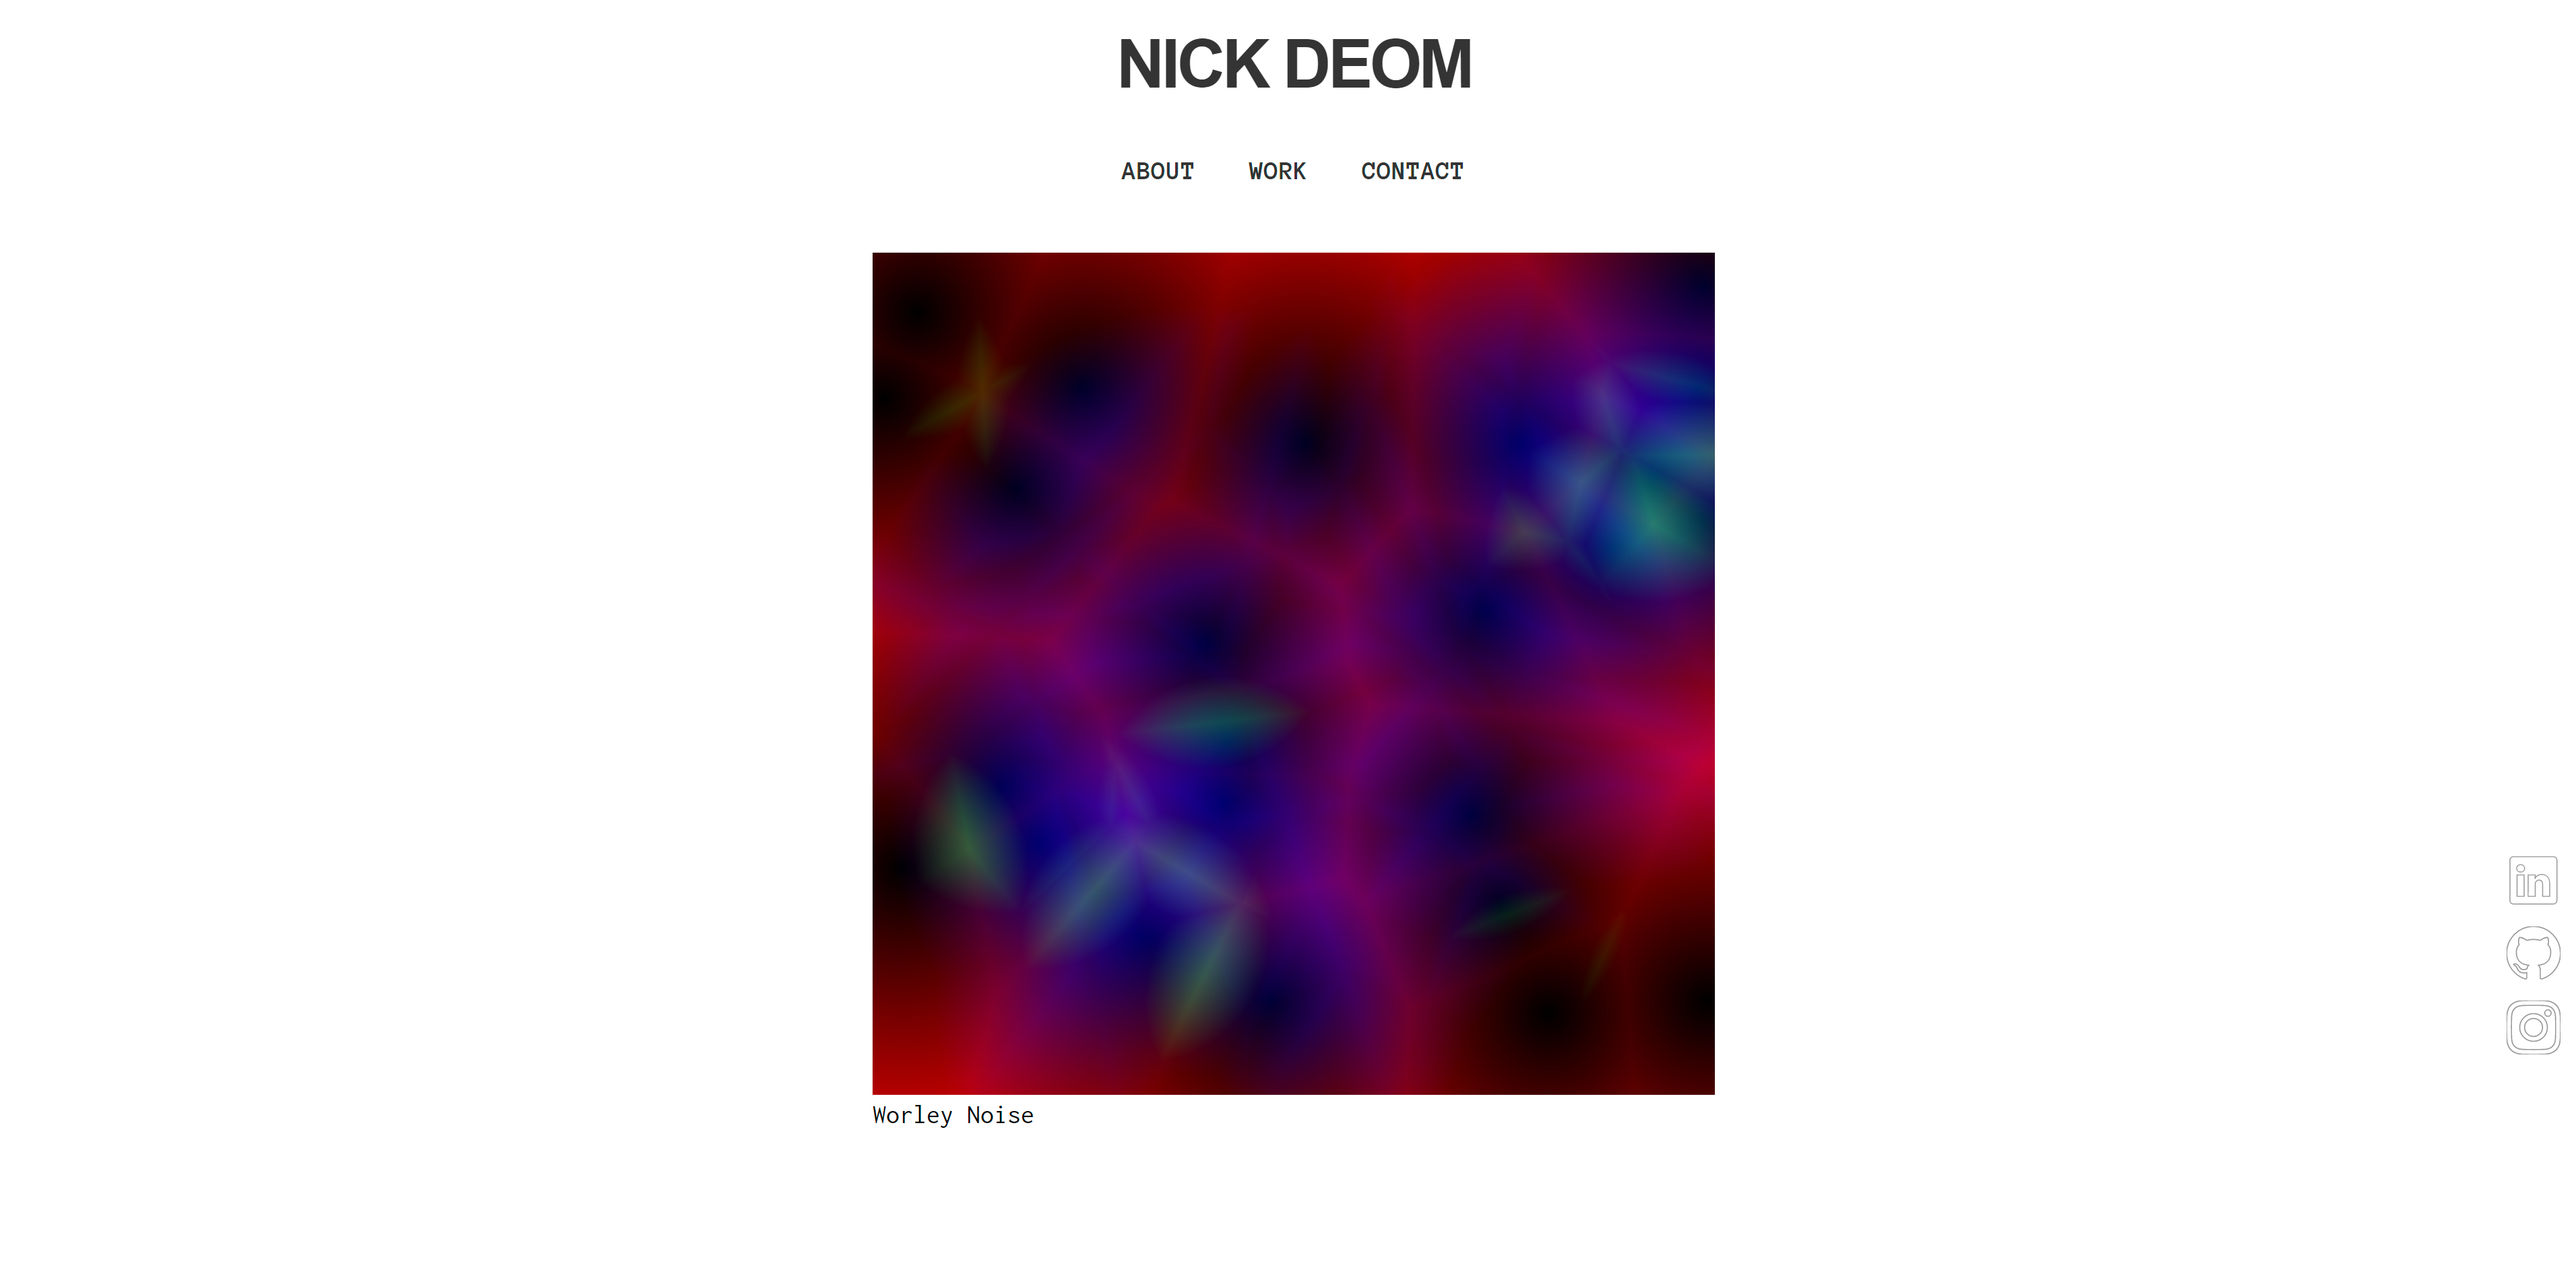
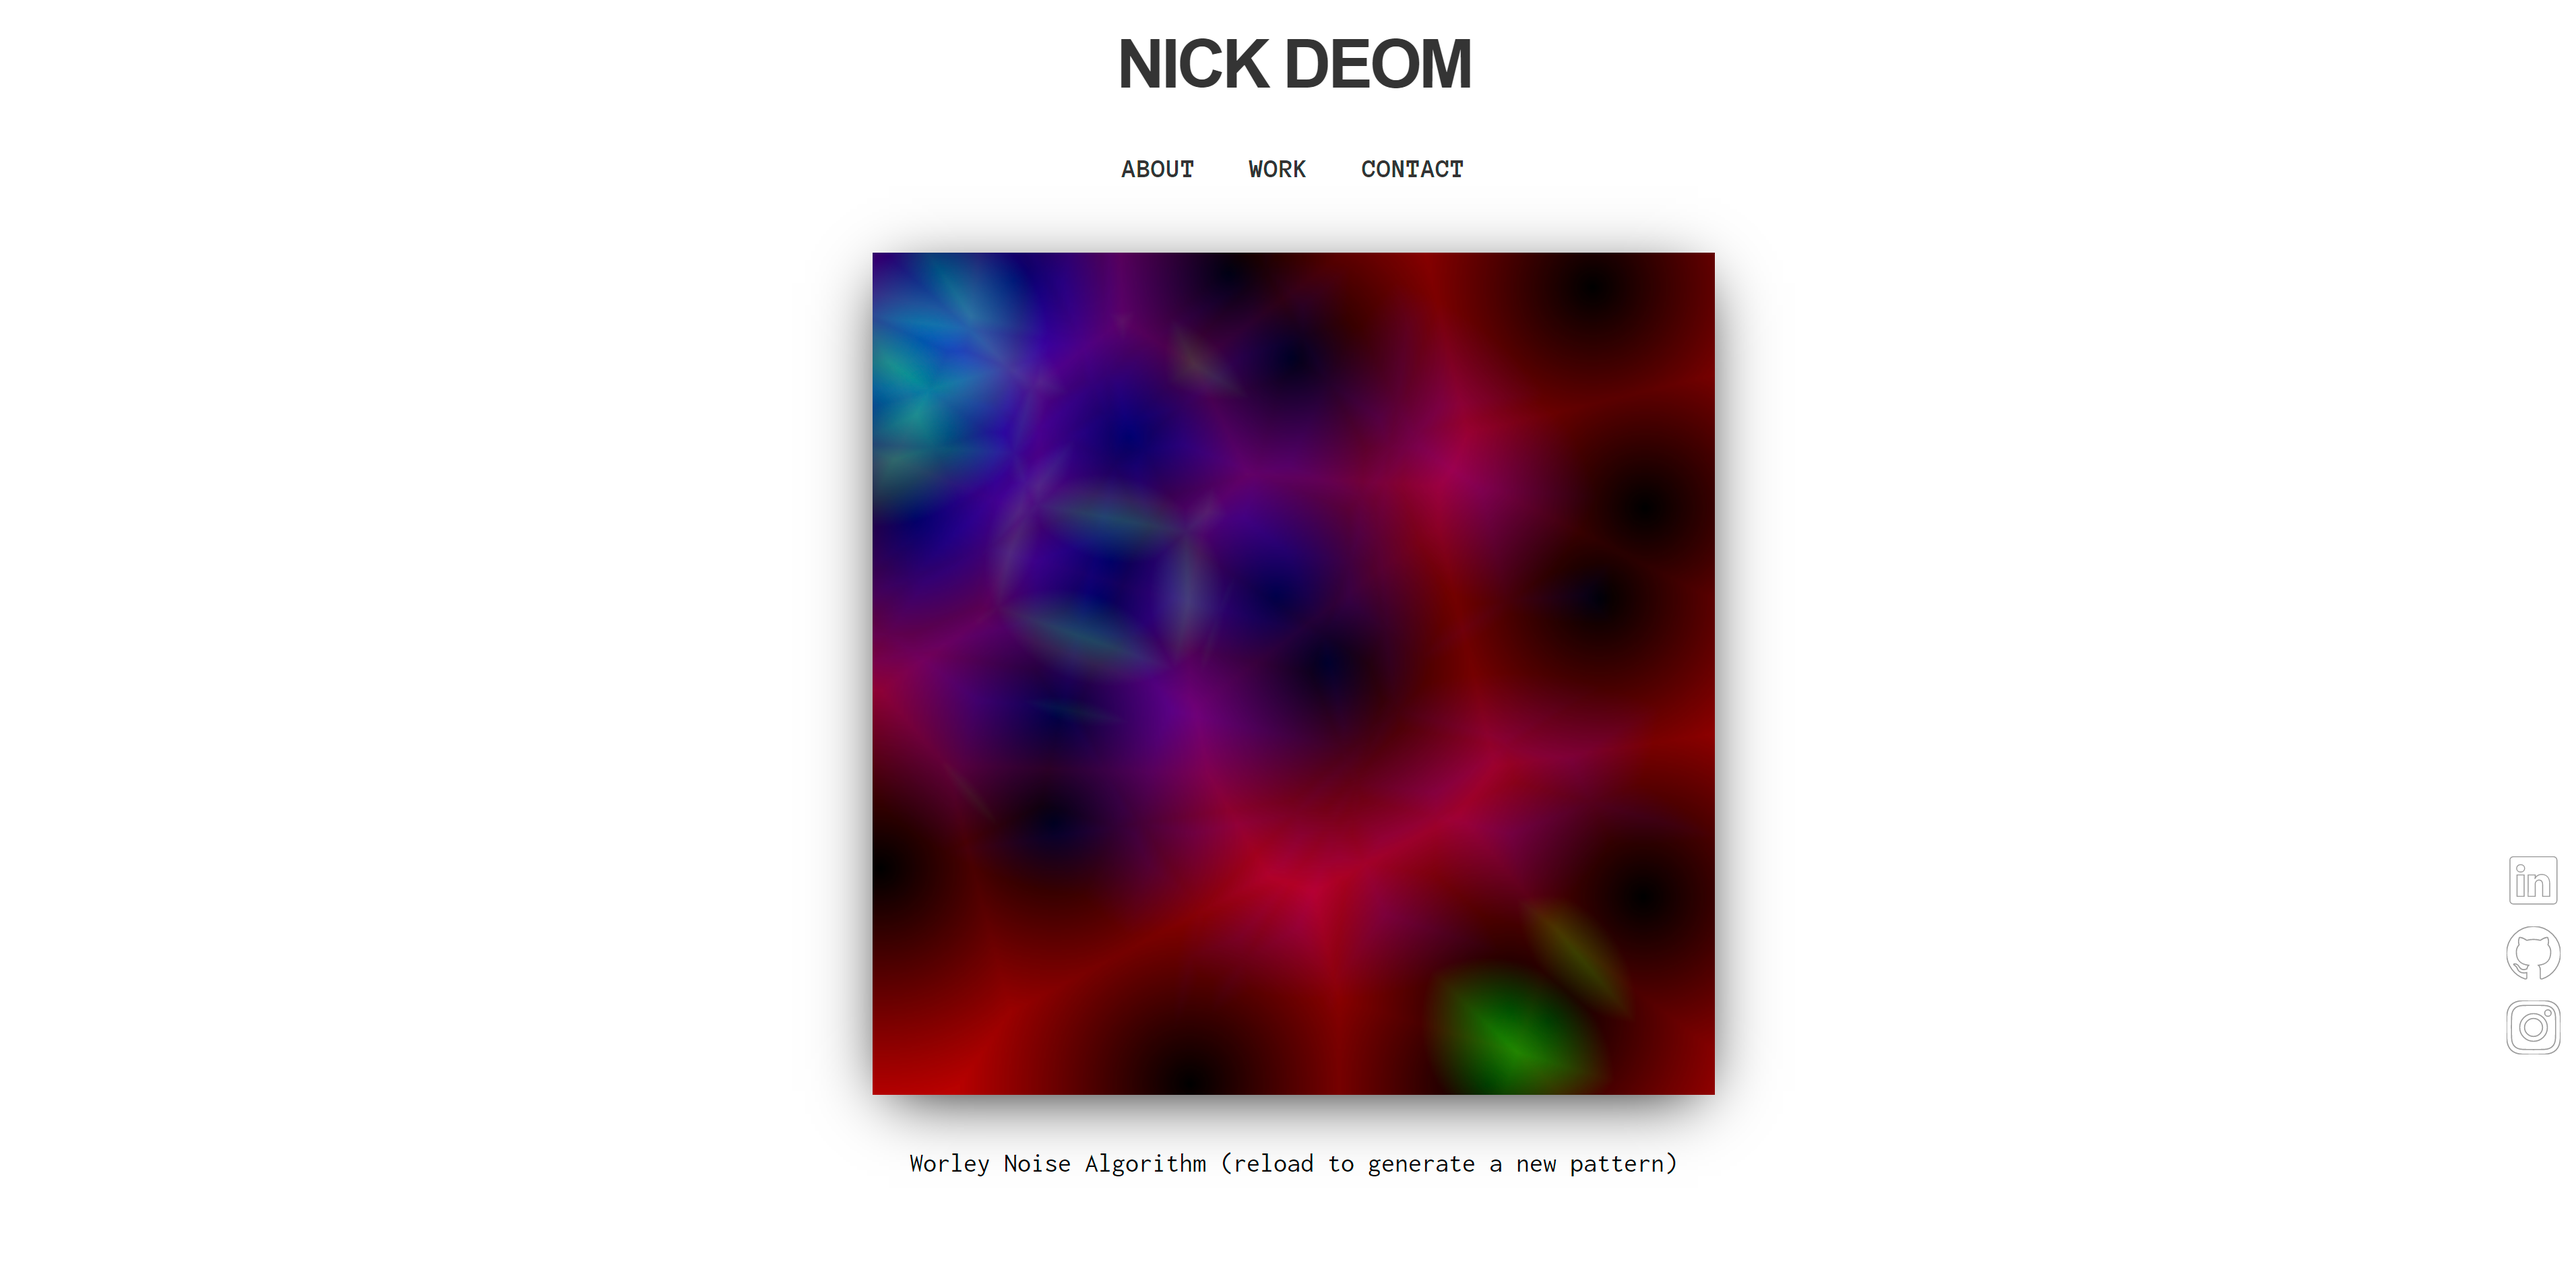
Added anchor tags to project titles and images

Changed region(s): [[0.3113, 0.1846, 0.6848, 0.9231], [0.5292, 0.1231, 0.5603, 0.1538], [0.4358, 0.1231, 0.4669, 0.1538]]

diff --git a/src/Routes/Work.js b/src/Routes/Work.js
@@ -12,7 +12,11 @@ export default function Work() {
     <div id="work">
       <div id="work-content">
         <h2 id="work-title">work</h2>
-        <Project title={"StockBOT"} src={StockBOTImg}>
+        <Project
+          title={"StockBOT"}
+          src={StockBOTImg}
+          projectLink={"https://stockbotio.herokuapp.com/"}
+        >
           <p>
             StockBOT is a game where you play against a machine learning
             algorithm and the market to see who can get the biggest return on
@@ -47,7 +51,11 @@ export default function Work() {
             .
           </p>
         </Project>
-        <Project title={"Job.Scrape()"} src={JobScrapeImg}>
+        <Project
+          title={"Job.Scrape()"}
+          src={JobScrapeImg}
+          projectLink={"https://jobscrapeio.herokuapp.com/"}
+        >
           <p>
             Job.Scrape() is a web scraper that collects recent job postings from
             Stack Overflow, Hacker News, and TripleByte and makes them available
@@ -93,7 +101,11 @@ export default function Work() {
             .
           </p>
         </Project>
-        <Project title={"Portfolio"} src={PortfolioImg}>
+        <Project
+          title={"Portfolio"}
+          src={PortfolioImg}
+          projectLink={"https://github.com/ndeom/NickDeomPortfolio"}
+        >
           <p>
             This website was made with <span className="emphasis">React</span>,{" "}
             <span className="emphasis">SASS</span>, and{" "}
@@ -126,7 +138,7 @@ export default function Work() {
             end. <span className="emphasis">React</span>,{" "}
             <span className="emphasis">D3</span>, and{" "}
             <span className="emphasis">SASS</span> are used to give the model a
-            modern interface.
+            modern interface. No code to show just yet.
           </p>
         </Project>
       </div>

diff --git a/src/Components/Project.js b/src/Components/Project.js
@@ -4,12 +4,24 @@ import "../Styles/Project.scss";
 export default function Project(props) {
   return (
     <div className="project">
-      <h3 className="project-title">{props.title}</h3>
-      <img
-        src={props.src}
-        alt={`${props.title}`}
-        className="project-image"
-      ></img>
+      <h3 className="project-title">
+        <a
+          className="title-link"
+          href={props.projectLink}
+          target="_blank"
+          rel="noopener noreferrer"
+        >
+          {props.title}
+        </a>
+      </h3>
+      <a
+        className="image-link"
+        href={props.projectLink}
+        target="_blank"
+        rel="noopener noreferrer"
+      >
+        <img src={props.src} alt={`${props.title}`} className="project-image" />
+      </a>
       <br />
       <br />
       {props.children}

diff --git a/src/Styles/Home.scss b/src/Styles/Home.scss
@@ -9,5 +9,22 @@ $header-offset: 150px;
   padding-top: $header-offset;
   font-family: "Playfair Display", serif;
   display: flex;
-  justify-content: center;
+  flex-direction: column;
+  align-items: center;
+
+  #canvas-annotation {
+    width: 500px;
+    text-align: center;
+    font-family: "Inconsolata", monospace;
+    padding-top: 2rem;
+    font-size: 16px;
+  }
+}
+
+@media only screen and (max-width: 500px) {
+  #home {
+    #canvas-annotation {
+      width: 300px;
+    }
+  }
 }

diff --git a/src/Styles/Canvas.scss b/src/Styles/Canvas.scss
@@ -3,5 +3,15 @@
 @import url("https://fonts.googleapis.com/css2?family=Playfair+Display:ital,wght@0,400;0,500;0,600;0,700;0,800;0,900;1,400;1,500;1,600;1,700;1,800;1,900&display=swap");
 
 #canvas {
+  height: 500px;
+  width: 500px;
   font-family: "Inconsolata", monospace;
+  box-shadow: 0px 8px 40px -10px black;
+}
+
+@media only screen and (max-width: 500px) {
+  #canvas {
+    width: 300px;
+    height: 300px;
+  }
 }

diff --git a/src/Styles/Project.scss b/src/Styles/Project.scss
@@ -21,6 +21,10 @@ h3 {
   margin: 0 0 3rem 0;
   width: $frame-width;
   align-self: center;
+  .title-link {
+    text-decoration: none;
+    color: $satin-black;
+  }
   .project-image {
     @include dimension($frame-width);
     background-color: #ffffff;

diff --git a/src/Routes/Home.js b/src/Routes/Home.js
@@ -6,6 +6,9 @@ export default function Home() {
   return (
     <div id="home">
       <Canvas />
+      <span id="canvas-annotation">
+        Worley Noise Algorithm (reload to generate a new pattern)
+      </span>
     </div>
   );
 }

diff --git a/src/Components/Canvas.js b/src/Components/Canvas.js
@@ -56,7 +56,6 @@ export default class Canvas extends React.Component {
     return (
       <div id="canvas">
         <Sketch setup={this.setup} draw={this.draw} />
-        Worley Noise
       </div>
     );
   }
